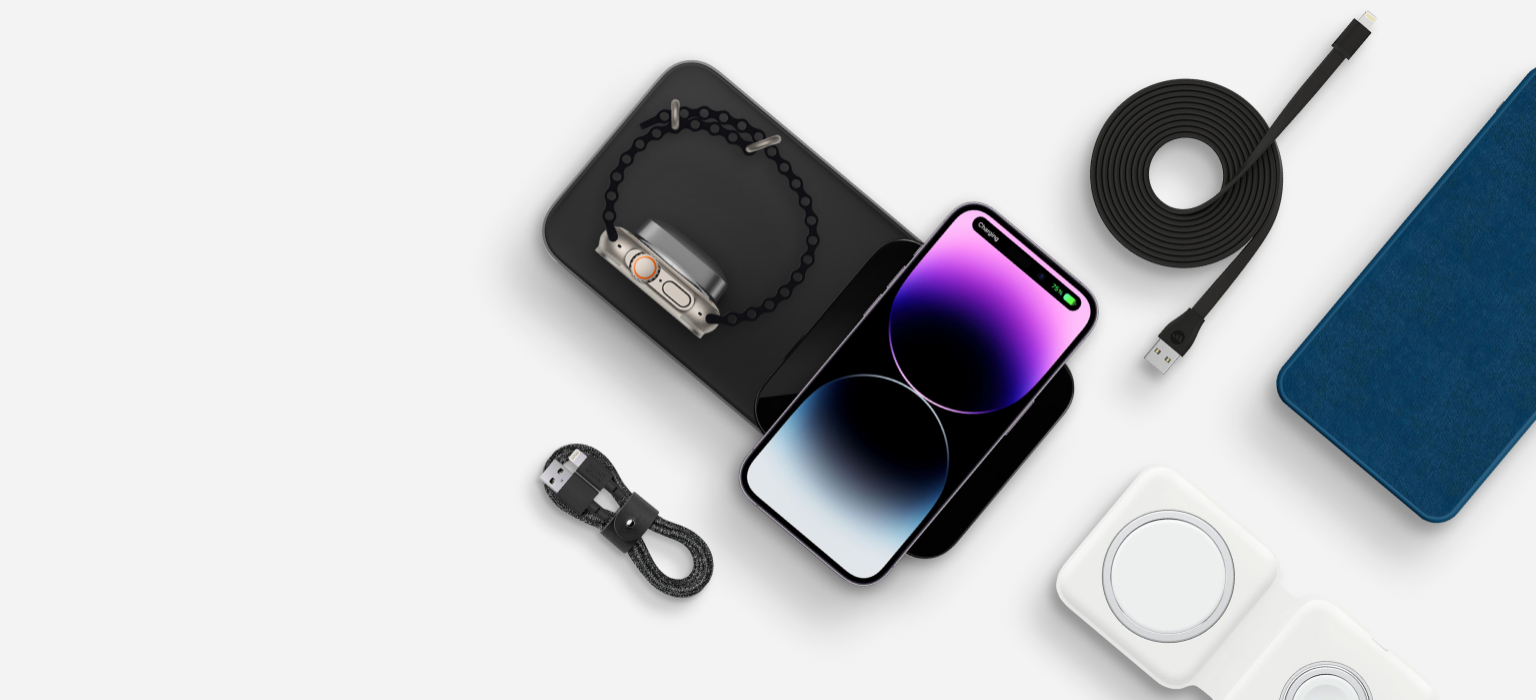
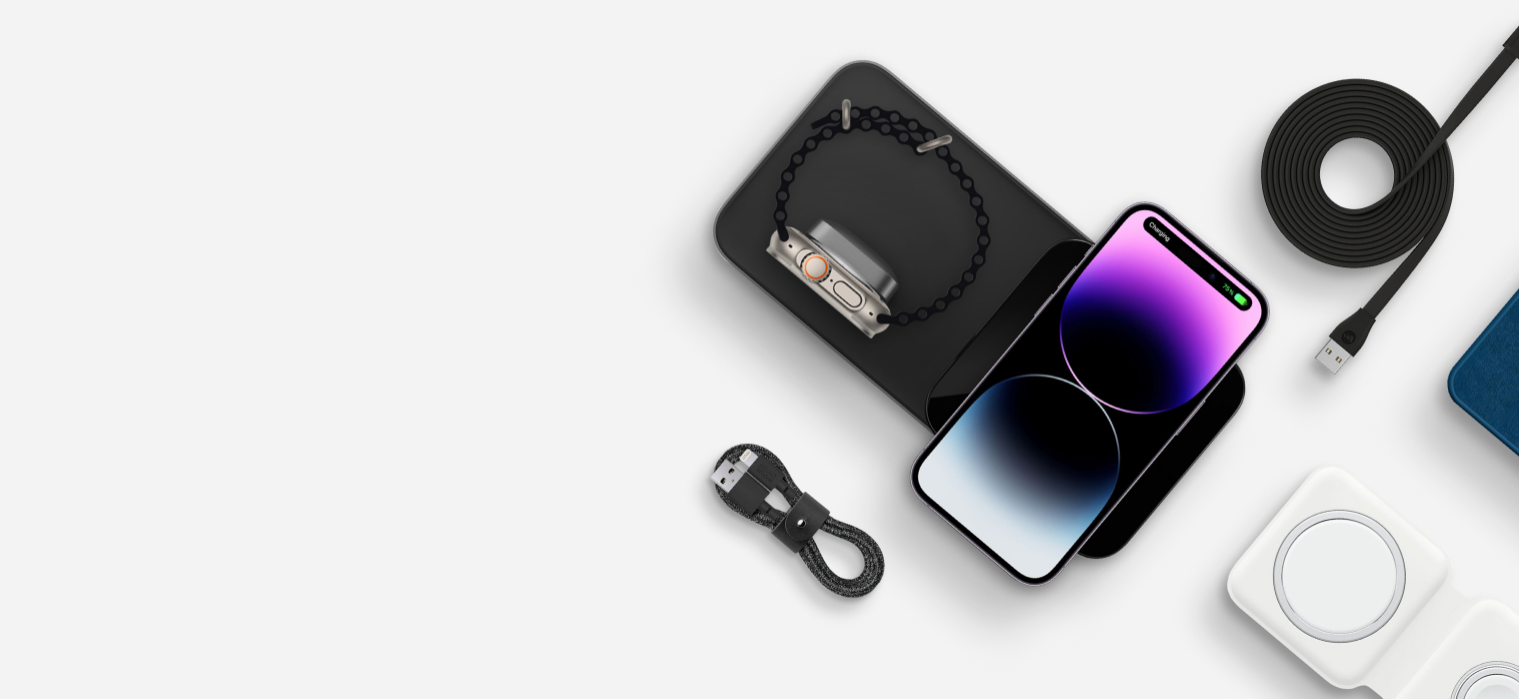
28/10/2024 - Nguyen Minh

diff --git a/css/style.css b/css/style.css
@@ -1,3 +1,6 @@
+body {
+    margin: 0;
+}
 /* =================================================================================== */
 /* Thanh menu */
 .header {
@@ -14,7 +17,7 @@
     z-index: 2;
 }
 
-.container-1 {
+.container1 {
     padding: 10px 0px;
     position: fixed; 
     box-sizing: border-box;
@@ -22,11 +25,11 @@
     align-items: center; /* Căn giữa theo chiều dọc */
 }
 
-.container-1 .menu-link {
+.container1 .menu-link {
     text-decoration: none; /* Không hiện đường gạch chân (mặc định) đối với thẻ <a> */
 }
 
-.container-1 .sub-menu {
+.container1 .sub-menu {
     text-decoration: none; /* Không hiện đường gạch chân (mặc định) đối với thẻ <a> trong menu */
 }
 
@@ -109,75 +112,109 @@ header .box-menu ul li:hover>ul {
 
 /* =================================================================================== */
 /* Slider */
-.img-slider {
+
+.container2 {
+    width: 1519px;
+    height: 700px;
     position: relative;
-    width: 100%;
-    height: 500px;
+    overflow: hidden;
 }
 
-.img-slider .slide {
-    z-index: 1;
+.slider {
     position: absolute;
+    top: 0;
+    left: 0;
+    height: 100%;
+    display: flex;
+    width: max-content;
+    transition: 1s;
+}
+
+.slider img {
+    width: 1519px;
+    height: 100%;
+}
+
+.buttons {
+    position: absolute;
+    top: 45%;
     width: 100%;
-    clip-path: polygon(100% 0, 100% 0%, 100% 100%, 100% 100%);
+    display: flex;
+    justify-content: space-between;
 }
 
-.img-slider .slide.active {
-    clip-path: polygon(100% 0, 0 0, 0 100%, 100% 100%);
-    transition: 1.7s;
-    transition-property: clip-path;
+.buttons i {
+    font-size: 30px;
+    width: 40px;
+    height: 40px;
+    border-radius: 50%;
+    cursor: pointer;
 }
 
-.img-slider .slide img {
-    z-index: 1;
+.buttons #prev {
+    padding: 5px;
 }
 
+.buttons #next {
+    padding: 5px;
+}
 
-.img-slider .slide .info {
+.buttons #prev .fa-chevron-left {
+    padding: 5px;
+}
+
+.buttons #next .fa-chevron-right {
+    padding: 5px 5px 5px 13px;
+}
+
+.buttons i:hover {
+    color: #767676;
+    opacity: 30%;
+}
+
+.dots {
+    position: absolute;
+    bottom: 20px;
+    left: 0;
+    width: 100%;
+    margin: 0;
+    padding: 0;
+    display: flex;
+    justify-content: center;
+}
+
+.dots li {
+    list-style: none;
+    width: 10px;
+    height: 10px;
+    background: local;
+    margin: 0px 6px;
+    border: 2px solid #9d9c9c;
+    border-radius: 20px;
+    cursor: pointer;
+    transition: 1s;
+}
+
+.dots li.active {
+    background: #000000;
+    border: #000000;
+}
+
+.slider .slide .info {
     position: absolute;
     top: 0;
     left: 0;
     padding: 220px 0px 0px 125px;
 }
 
-.img-slider .slide .info h1 {
+.slider .slide .info h1 {
     font-size: 72px;
     font-weight: 500;
 }
 
-.img-slider .slide .info p {
+.slider .slide .info p {
     font-size: 16px;
     color: #848484;
     width: 55%;
     padding: 20px 0px 0px 0px;
-}
-
-.img-slider .nav {
-    z-index: 2;
-    position: absolute;
-    display: flex;
-    bottom: -190px;
-    left: 50%;
-    transform: translateX(-50%);
-    width: 90%;
-    height: 13px;
-    margin: 0px 0px;
-    align-items: center;
-    justify-content: center;
-}
-
-.img-slider .nav .btn {
-    background: local;
-    width: 11px;
-    height: 11px;
-    padding: 0;
-    margin: 0px 5px 0px 5px;
-    border: 2px solid #9d9c9c;
-    border-radius: 50%;
-    cursor: pointer;
-}
-
-.img-slider .nav .btn.active {
-background: black;
-border: black;
-}
+}   

diff --git a/index.html b/index.html
@@ -14,7 +14,7 @@
     <!-- Begin header -->
     <header class="header">
         <div class="top-header">
-            <div class="container-1">
+            <div class="container1">
                 <a href="" class="logo"><img src="./img/woodmart-logo.png" alt="Woodmart logo"></a>
                 <div class="box-menu">
                     <ul class="menu1">
@@ -103,40 +103,47 @@
             </div>
         </div>
         <div class="bottom-header">
-            <div class="container-2">
-                <div class="img-slider">
-                    <div class="slide active">
-                        <img id="slide-1" src="./img/pic1.png" alt="pic1" class="slide-img">
+            <div class="container2">
+                <div class="slider">
+                    <div class="slide">
+                        <img id="slide-1" src="./img/pic1.png" alt="pic1">
                         <div class="info">
                             <h1>Charge Your<br>Phone Safely!</h1>
                             <p>A wonderful Serenity has possession of my entire soul, like these sweel mornings of spring which I enjoy with my whole heart.</p>
                         </div>
                     </div>
                     <div class="slide">
-                        <img id="slide-2" src="./img/pic2.png" alt="pic1" class="slide-img">
+                        <img id="slide-2" src="./img/pic2.png" alt="pic1">
                         <div class="info">
                             <h1>For Everything<br>and Everyone</h1>
                             <p>Even if your less into design and more into content strategy you may find some redeeming value with, wait for it, dummy coppy</p>
                         </div>
                     </div>
                     <div class="slide">
-                        <img id="slide-3" src="./img/pic3.png" alt="pic1" class="slide-img">
+                        <img id="slide-3" src="./img/pic3.png" alt="pic1">
                         <div class="info">
                             <h1>Featured<br>Accessories</h1>
                             <p>A client that's unhappy for a reason is a problem, a client that's unhappy though required he or her can't quite put a finger.</p>
                         </div>
                     </div>
-                    <div class="nav">
-                        <div class="btn active"></div>
-                        <div class="btn"></div>
-                        <div class="btn"></div>
-                    </div>
                 </div>
+                <div class="buttons">
+                    <div id="prev"><i class="fa-solid fa-chevron-left" style="color: #565656;"></i></div>
+                    <div id="next"><i class="fa-solid fa-chevron-right" style="color: #565656;"></i></div>
+                </div>
+                <ul class="dots">
+                    <li class="active"></li>
+                    <li></li>
+                    <li></li>
+                </ul>
             </div>
         </div>
         <script src="./js/main.js"></script>
     </header>
     <!-- End header -->
+    <!-- Begin wrapper -->
+
+    <!-- End wrapper -->
 </body>
 
 </html>

diff --git a/js/main.js b/js/main.js
@@ -1,24 +1,52 @@
-var slides = document.querySelectorAll('.slide');
-var btns = document.querySelectorAll('.btn');
-let currentSlide = 1;
+let slider = document.querySelector('.container2 .slider');
+let slides = document.querySelectorAll('.container2 .slider .slide');
+let dots = document.querySelectorAll('.container2 .dots li');
+let prev = document.getElementById('prev');
+let next = document.getElementById('next');;
 
-//JavaScript cho điều hướng các ảnh
-var manualNav = function (manual) {
-    slides.forEach((slide) => {
-        slide.classList.remove('active');
+let active = 0;
+let lengthSlide = slides.length - 1;
 
-        btns.forEach((btn) => {
-            btn.classList.remove('active');
-        });
-    });
-
-    slides[manual].classList.add('active');
-    btns[manual].classList.add('active');
+prev.onclick = function()
+{
+    if(active - 1 < 0)
+    {
+        active = lengthSlide;
+    }
+    else
+    {
+        active -= 1;
+    }
+    reloadSlider();
 }
 
-btns.forEach((btn, i) => {
-    btn.addEventListener("click", () => {
-        manualNav(i);
-        currentSlide = i;
-    });
-});
+next.onclick = function() 
+{
+    if (active + 1 > lengthSlide)
+    {
+        active = 0;
+    }
+    else
+    {
+        active += 1;
+    }
+    reloadSlider();
+}
+
+function reloadSlider()
+{
+    let checkLeft = slides[active].offsetLeft;
+    slider.style.left = -checkLeft + 'px';
+
+    let lastActiveDot = document.querySelector('.container2 .dots li.active');
+    lastActiveDot.classList.remove('active');
+    dots[active].classList.add('active');
+}
+
+dots.forEach((li, key) => {
+    li.addEventListener('click', function(){
+        active = key;
+        reloadSlider();
+    })
+})
+
